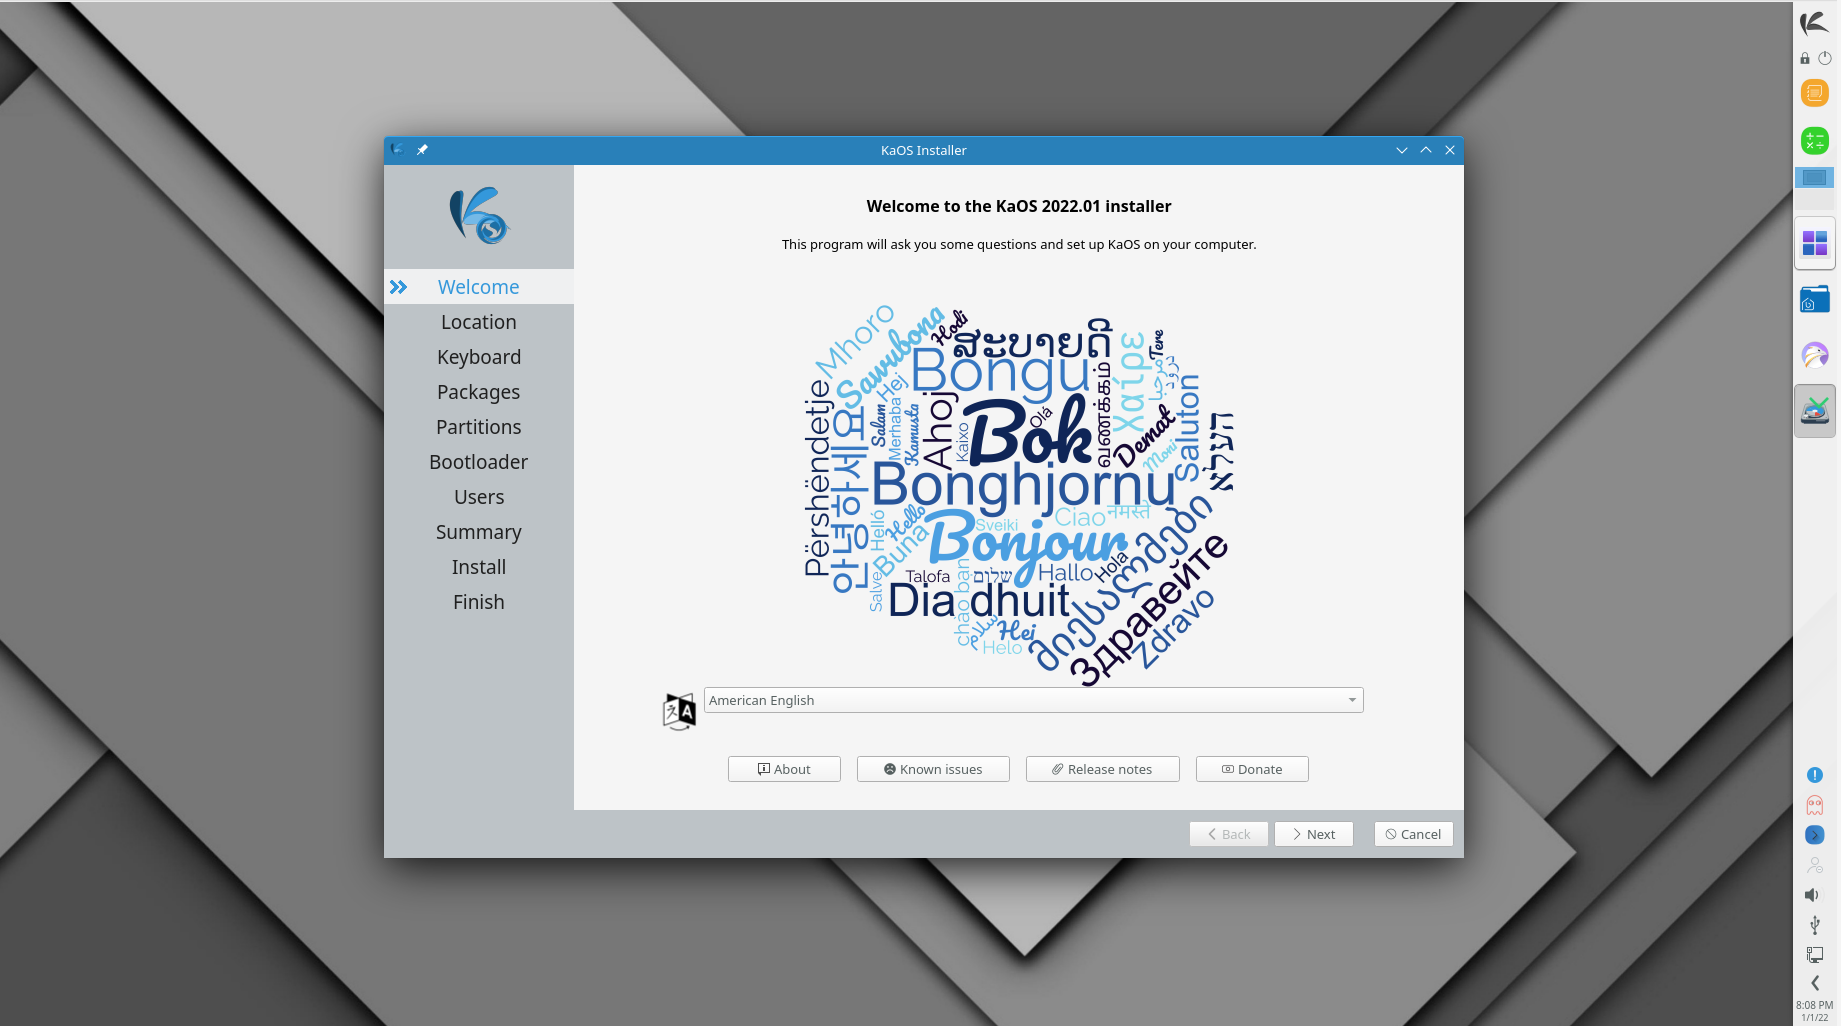
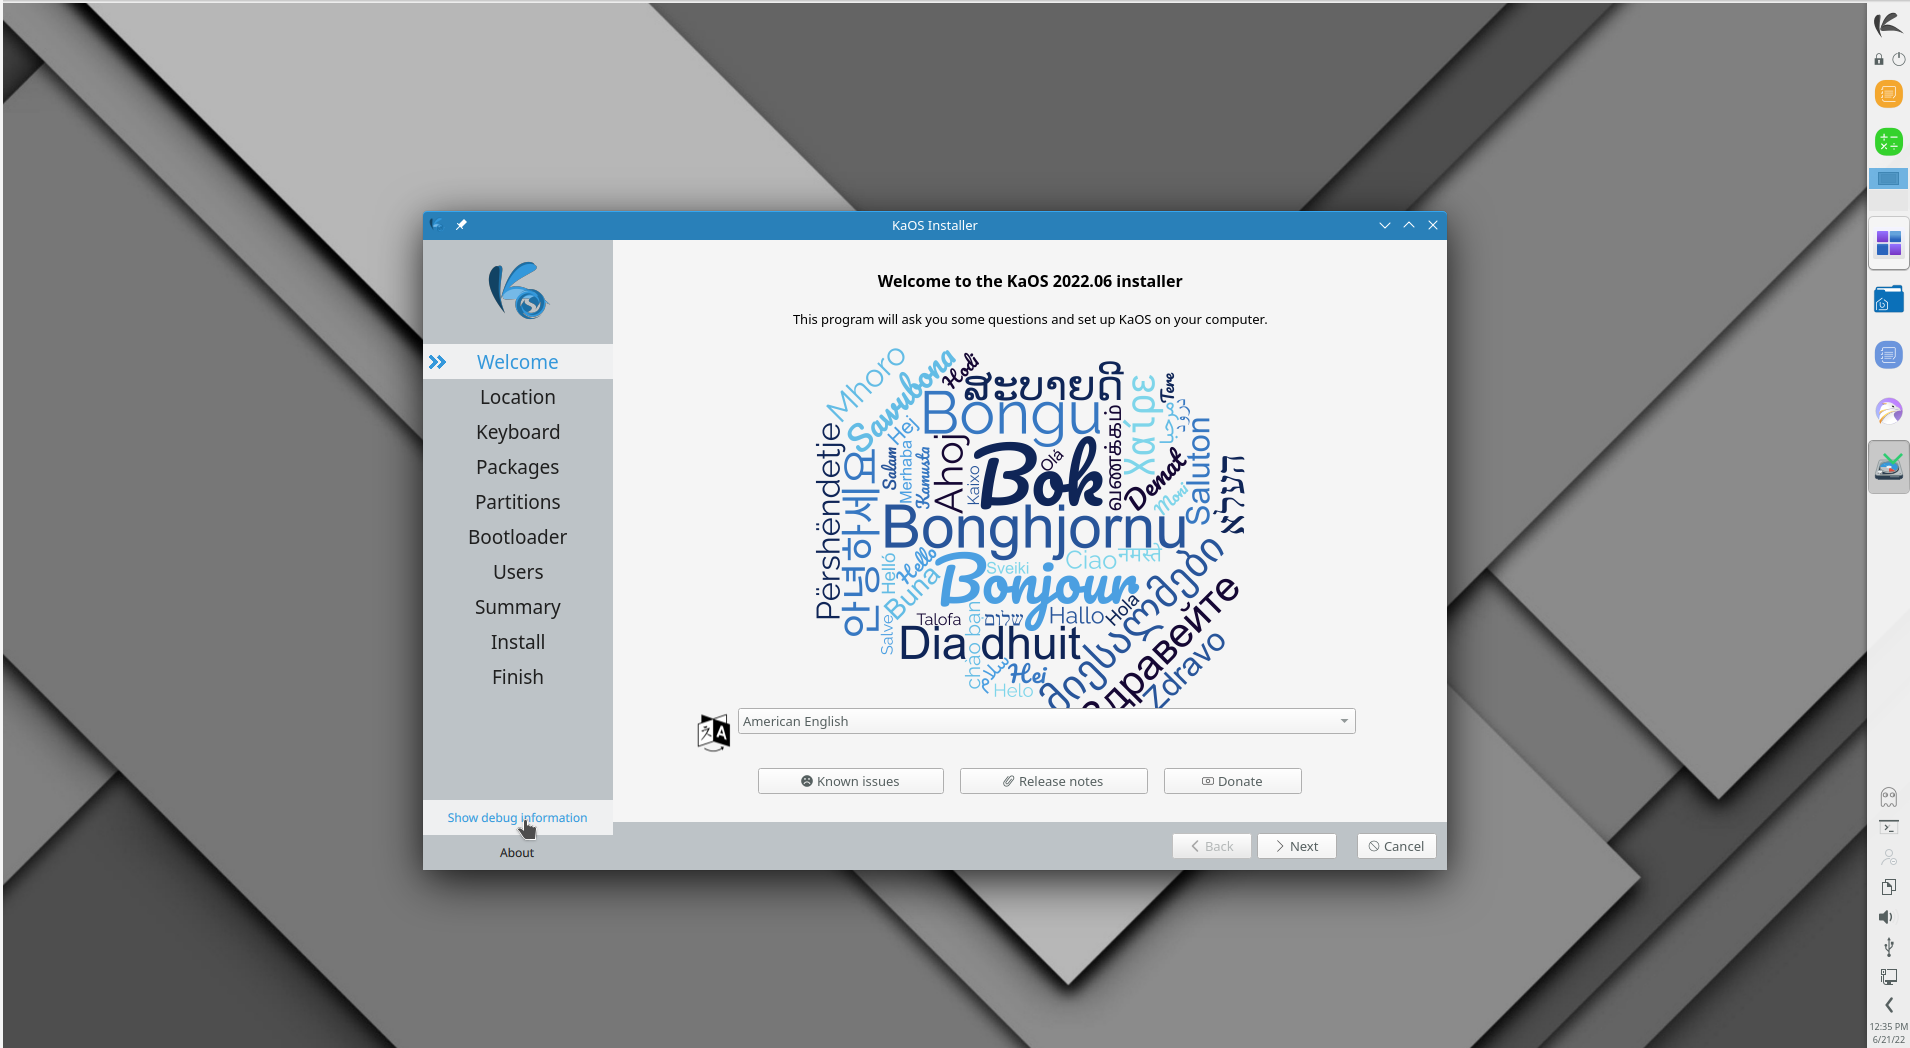
June ISO release

diff --git a/pages/release_notes/index.html b/pages/release_notes/index.html
@@ -19,11 +19,15 @@ categories: []
 tags: []
 comments: []
 ---
-<h3>KaOS - 2022.04</h3>
-     <p>KaOS is pleased to announce the availability of the April release of a new stable ISO.</p>
+<h3>KaOS - 2022.06</h3>
+     <p>It is with great pleasure to present to you the June release of a new stable ISO.</p>
 
-            <p>With the release of KDE Gear 22.04, some nice new features and enhancements are introduced.  Konsole's completely new feature is Quick Commands: open a quick commands pane from Plugins > Show Quick Commands and you will be able to create short scripts you use frequently, Konsole's SSH plugin has been further enhanced and you can assign different visual profiles.  For Kdenlive, two new options stick out: you can create customised profiles so that your rendered movie adapts perfectly to your needs, and you can also render by zones, using the guides you set up on the timeline as references.  Okular now alerts you immediately when you go to sign a document but have no valid digital certificates.  With Skanpage, you can now share scanned documents (including multi-page PDFs) using KDE’s general sharing system, which allows you to push documents to instant messaging apps, online cloud services, social services, and through Bluetooth to other devices.< /br>
-            For the other KDE parts, the latest Frameworks (5.93.0) and Plasma (5.24.4) are included. All built on <strong>Qt 5.15.3+</strong>.</p>
+            <p>Changes were numerous and all over the place, the base of the system for example, was built on a new Glibc 2.35, GCC 11.3.0 and Binutils 2.38 based Toolchain. Further updates in <i>Core</i> included DBus 1.14.0, Systemd 250.7, Nettle 3.8 and the kernel moved to 5.17.15.< /br>
+            Midna, the Plasma theme used in KaOS received some changes (partly to get ready for Plasma 5.25), visual biggest change is the addition of a well-integrated virtual keyboard in the login & lock screen.< /br>
+            The installer <strong> Calamares</strong> now uses the 3.3 branch.  There are no releases with it yet, but it comes with enough improvements that it is a better fit for KaOS. The integration with KPMCore has improved, LUKS support is more robust and there is now an option to not encrypt the boot partition when encryption is chosen for the install. Some GUI improvements have been implemented too.</p>
+
+            <p>But for most, the biggest news for this release will be Plasma 5.25.  KDE Plasma 5.25 redesigns and enhances how you navigate between windows and workspaces. The Overview effect shows all of your open windows and virtual desktops. Gestures on touchpads and touchscreens put Plasma at your fingertips. The dominant color of your background picture can be applied to all components that use the accent color. Titlebars of KDE apps become taller when in Touch Mode, making it easier to press, drag, and close windows with touch. Floating Panels add a margin all around the panel to make it float, while animating it back to look normal when a window is maximized. And Plasma panels can now be navigated with the keyboard, and you can assign custom shortcuts to focus individual panels.< /br>
+            For the other KDE parts, the latest Frameworks (5.95.0), and KDE Gear (22.04.2) are included. All built on <strong>Qt 5.15.5+</strong>.</p>
 
             <p>After almost two years of testing IWD, it is now in such a good state that it has replaced Wpa_Suplicant as the default wireless daemon for KaOS.</p>
 
@@ -31,13 +35,12 @@ comments: []
             
             <p>A shift has started as to how all Python packages are built.  Historically, just about all were built with setuptools through a setup.py script.  PEP17 is the new standard for building python packages, see https://peps.python.org/pep-0517/.  At this stage, KaOS is testing this transition with different new Python build tools, such as Python-flit & Python-build, with Python-wheel currently in use to install the build packages.</p>
 
-            <p>Updates to the base of this distribution included Glib2 2.72.1, kernel moved to Linux 5.17.5, Systemd 250.4, Boost 1.78.0, DBus 1.14.0, Mesa 22.0.2, Vulkan packages 1.3.212, Util-linux 2.38, Coreutils 9.1, and Libusb 1.0.26.</br>
-            Qt 5.15 does not receive updates or maintenance from the Qt company (only closed source, paid support is available). KDE has stepped up though and published a maintained 5.15 fork https://dot.kde.org/2021/04/06/announcing-kdes-qt-5-patch-collection. KaOS now regularly does a patch update from this fork for all of Qt 5.15, so it basically is now at 5.15.4.
+            <p>Qt 5.15 does not receive updates or maintenance from the Qt company (only closed source, paid support is available). KDE has stepped up though and published a maintained 5.15 fork https://dot.kde.org/2021/04/06/announcing-kdes-qt-5-patch-collection. KaOS now regularly does a patch update from this fork for all of Qt 5.15, so it basically is now at 5.15.6.
             </p>
             
             <p>For Nvidia, a new longterm support version is included in this ISO, 470xx. The move by Nvidia to 495 meant the end of support for Kepler based cards, thus the need to add a new legacy version.</p>
             
-            <p>Qt 6.3.0 is included and is now far more complete since many more are ported from Qt5, this includes qt6-location and the big one, qt6-webengine (plus all the Qt6 webengine depends on). A few test applications have been build on qt6-webengine, including some web-browsers. All of the PyQt packages are now available in a Qt6 version too. Plus the Kvantum theming has support for Qt6.</p>
+            <p>Qt 6.3.1 is included and is now far more complete since many more are ported from Qt5, this includes qt6-location and the big one, qt6-webengine (plus all the Qt6 webengine depends on). A few test applications have been build on qt6-webengine, including some web-browsers. All of the PyQt packages are now available in a Qt6 version too. Plus the Kvantum theming has support for Qt6.</p>
 
     <p>Big thanks goes to <strong>Fosshost</strong> for not only providing the default mirror (through the <strong>Fastly CDN</strong> mirror network) but also providing a server for KaOS. This server is replacing an eight year old server (used for package upload, ZNC bouncer, and the old PHP based package viewer).</p>
     
@@ -61,12 +64,12 @@ comments: []
     
     <p>To avoid any misunderstanding and confusion, KaOS is <b>not based upon, derived of, or inspired by</b> any one particular distribution. It is completely independent, build entirely from scratch with its own repositories. To read more about this see <a href="http://kaosx.us/about/based/">FAQ</a>. A <b>rolling release distribution</b> never has a "final" release, every ISO is merely a snapshot of the current status of the repositories. An idea what is currently available:</p>
     
-    <p>The ISO ships with <b>Frameworks 5.93.0, Plasma 5.24.4, KDE Applications 22.04.0</b>, Linux 5.17.5, Systemd 250.4, Kmod 29, NetworkManager 1.36.4, LibreOffice 7.3.2, Elisa, Xorg-Server 1.21.3, Mesa 22.0.2, Glibc 2.33, GCC 11.2.0, non-free Nvidia 510 and Python3 3.9.12 to name a few.</p>
+    <p>The ISO ships with <b>Frameworks 5.95.0, Plasma 5.25.1, KDE Applications 22.04.2</b>, Linux 5.17.15, Systemd 250.7, Kmod 29, NetworkManager 1.38.2, LibreOffice 7.3.4, Elisa, Xorg-Server 1.21.3, Mesa 22.1.2, Glibc 2.35, GCC 11.3.0, non-free Nvidia 515 and Python3 3.9.13 to name a few.</p>
     
     <p>The package manager is <strong>Pacman 6.0.1</strong>, with the simple but powerful Octopi 0.13 as GUI frontend. Default web browser is Qt based Falkon. <b>GFXboot</b> is included with KaOS artwork, Grub theme is Midna, Look &amp; Feel is a KaOS exclusive version "Midna".</p>
     
-    <p><b>Repositories</b> of KaOS will stay limited in size and expect it to stay at the current maximum of about 2100-2200. A gist of what is available, besides the stable kernel there is Linux-next 5.17, Calligra 3.2.1, VLC, Vokoscreen, Blender, Kodi, Calibre, Sigil, Vulkan packages, a few games like 0ad and Knights.<br />
-    A limited number of the most well-known GTK applications are available, examples Firefox 99.0.1, Chrome 102, Ardour 6.9.0, Inkscape 1.1.2, GIMP 2.10.30 and Thunderbird 91.8.1.<br />
+    <p><b>Repositories</b> of KaOS will stay limited in size and expect it to stay at the current maximum of about 2100-2200. A gist of what is available, besides the stable kernel there is Linux-next 5.18, Calligra 3.2.1, VLC, Vokoscreen, Blender, Kodi, Calibre, Sigil, Vulkan packages, a few games like 0ad and Knights.<br />
+    A limited number of the most well-known GTK applications are available, examples Firefox 101.0.1, Chrome 104, Ardour 6.9.0, Inkscape 1.2, GIMP 2.10.32 and Thunderbird 91.10.0.<br />
     Complete language packs are available for KDE, Calligra, Firefox, LibreOffice and Thunderbird. For IM, Fcitx 4.2.9.6 is available as a rather complete group.</p>
     
     <p><b>Known issues:</b></p>

diff --git a/_includes/sidebar.html b/_includes/sidebar.html
@@ -3,13 +3,13 @@
   <img alt="Downloads of KaOS at SourceForge" title="Total downloads from SourceForge" src="https://img.shields.io/sourceforge/dt/kaosx?color=blue&style=flat-square" >
 
   <ul style="none">
-    <li><a href="https://sourceforge.net/projects/kaosx/files/ISO/KaOS-2022.04-x86_64.iso" onClick="ga('send', 'event', { eventCategory: 'downloads', eventAction: 'click', eventLabel: 'sf', eventValue: 1});">KaOS ISO</a></li>
-    <li><a href="https://mirrors.fossho.st/kaos/KaOS-2022.04-x86_64.iso" onClick="ga('send', 'event', { eventCategory: 'downloads', eventAction: 'click', eventLabel: 'fh', eventValue: 1});">Fosshost Mirror</a></li>
-    <li><a href="http://mirror6.layerjet.com/kaos/KaOS-2022.04-x86_64.iso" onClick="ga('send', 'event', { eventCategory: 'downloads', eventAction: 'click', eventLabel: 'de', eventValue: 1});">German Mirror</a></li>
-    <li><a href="http://kaos.youm.org/KaOS-2022.04-x86_64.iso" onClick="ga('send', 'event', { eventCategory: 'downloads', eventAction: 'click', eventLabel: 'fr', eventValue: 1});">French Mirror</a></li>
-    <li><a href="https://mirrors.shu.edu.cn/kaoslinux/KaOS-2022.04-x86_64.iso" onClick="ga('send', 'event', { eventCategory: 'downloads', eventAction: 'click', eventLabel: 'ch', eventValue: 1});">Chinese Mirror</a></li>
-    <li><a href="http://mirror.234.cz/kaos/KaOS-2022.04-x86_64.iso" onClick="ga('send', 'event', { eventCategory: 'downloads', eventAction: 'click', eventLabel: 'cz', eventValue: 1});">Czech Mirror</a></li>
-    <a href="https://mirror.math.princeton.edu/pub/kaoslinux/KaOS-2022.04-x86_64.iso" onClick="ga('send', 'event', { eventCategory: 'downloads', eventAction: 'click', eventLabel: 'usa', eventValue: 1});">USA Mirror</a>
+    <li><a href="https://sourceforge.net/projects/kaosx/files/ISO/KaOS-2022.06-x86_64.iso" onClick="ga('send', 'event', { eventCategory: 'downloads', eventAction: 'click', eventLabel: 'sf', eventValue: 1});">KaOS ISO</a></li>
+    <li><a href="https://mirrors.fossho.st/kaos/KaOS-2022.06-x86_64.iso" onClick="ga('send', 'event', { eventCategory: 'downloads', eventAction: 'click', eventLabel: 'fh', eventValue: 1});">Fosshost Mirror</a></li>
+    <li><a href="http://mirror6.layerjet.com/kaos/KaOS-2022.06-x86_64.iso" onClick="ga('send', 'event', { eventCategory: 'downloads', eventAction: 'click', eventLabel: 'de', eventValue: 1});">German Mirror</a></li>
+    <li><a href="http://kaos.youm.org/KaOS-2022.06-x86_64.iso" onClick="ga('send', 'event', { eventCategory: 'downloads', eventAction: 'click', eventLabel: 'fr', eventValue: 1});">French Mirror</a></li>
+    <li><a href="https://mirrors.shu.edu.cn/kaoslinux/KaOS-2022.06-x86_64.iso" onClick="ga('send', 'event', { eventCategory: 'downloads', eventAction: 'click', eventLabel: 'ch', eventValue: 1});">Chinese Mirror</a></li>
+    <li><a href="http://mirror.234.cz/kaos/KaOS-2022.06-x86_64.iso" onClick="ga('send', 'event', { eventCategory: 'downloads', eventAction: 'click', eventLabel: 'cz', eventValue: 1});">Czech Mirror</a></li>
+    <a href="https://mirror.math.princeton.edu/pub/kaoslinux/KaOS-2022.06-x86_64.iso" onClick="ga('send', 'event', { eventCategory: 'downloads', eventAction: 'click', eventLabel: 'usa', eventValue: 1});">USA Mirror</a>
     <!--<li><a href="https://iso.k0nsl.org/KaOS/KaOS-2017.04-x86_64.iso"  onClick="ga('send', 'event', { eventCategory: 'downloads', eventAction: 'click', eventLabel: 'usa2', eventValue: 1});">Second USA Mirror</a></li> -->
     <!--<li><a href="https://torrent.resonatingmedia.com/torrents/KaOS-2020.09-x86_64.iso.torrent" onClick="ga('send', 'event', { eventCategory: 'downloads', eventAction: 'click', eventLabel: 'torrent', eventValue: 1});">KaOS Torrent</a></li>-->
     <!--<li><a href="{{ site.baseurl }}/media/KaOS-2018.04-x86_64.iso.torrent" onClick="ga('send', 'event', { eventCategory: 'downloads', eventAction: 'click', eventLabel: 'torrent2', eventValue: 1});">Second KaOS Torrent</a></li> -->
@@ -27,7 +27,7 @@
   
   <ul style="none">
     <li><a href="{{ site.baseurl }}/media/KaOS.asc">KaOS Signing Key</a></li>
-    <li><a href="{{ site.baseurl }}/media/KaOS-2022.04-x86_64.iso.sig">ISO GPG signature</a></li>
+    <li><a href="{{ site.baseurl }}/media/KaOS-2022.06-x86_64.iso.sig">ISO GPG signature</a></li>
   </ul>
   
   <h4>Mirrors</h4>

diff --git a/pages/download/index.md b/pages/download/index.md
@@ -24,17 +24,17 @@ comments: []
 
 KaOS makes regular ISO releases available, so any (new) user is not confronted with a large or complicated first update. Those who already have KaOS installed do not need to reinstall, a regular `sudo pacman -Syu` will always give you the latest.
 
-[Release Notes]({{ site.baseurl }}/pages/release_notes) for KaOS 2022.04 ISO
+[Release Notes]({{ site.baseurl }}/pages/release_notes) for KaOS 2022.06 ISO
 
 <div id="wrapper4">
-<p><b>SHA256SUM KaOS 2022.04:</b> <code>3babaeeb87cf0cacdbb61b7e700922e2b490a15d2021f5f6ca5650c7b4c72d84</code></p>
-<p><b>SIZE: 2.8GiB</b></p>
+<p><b>SHA256SUM KaOS 2022.06:</b> <code>d8960101c20509bd1f37073302a27781e1dc4aeef2f43d86ce0de48f084d9d3f</code></p>
+<p><b>SIZE: 2.9GiB</b></p>
 </div>
 
 ### Current Version
 {: .offset}
-The April version ships with Plasma 5 as the default desktop, it includes non-free Nvidia drivers, KDE Applications 22.04.0, Linux kernel 5.17.5 (Linux-next is in the repo's, following the 5.17 series), GCC 11.2.0, Glibc 2.33, Systemd 250.4, Kmod 29, Xorg-server 21.1.3, Qt 5.15.3+, Mesa 22.0.2, LibreOffice 7.3.2, Elisa and the latest versions of Falkon, Octopi, Kde-Telepathy.
-For those wondering about gtk apps, Firefox 99.0.1, Chrome 103, Thunderbird 91.8, GIMP 2.10.30, Ardour 6.9.0 are among the available in their latest version.
+The June version ships with Plasma 5 as the default desktop, it includes non-free Nvidia drivers, KDE Applications 22.04.2, Linux kernel 5.17.15 (Linux-next is in the repo's, following the 5.18 series), GCC 11.3.0, Glibc 2.35, Systemd 250.7, Kmod 29, Xorg-server 21.1.3, Qt 5.15.5+, Mesa 22.1.2, LibreOffice 7.3.4, Elisa and the latest versions of Falkon, Octopi, Kde-Telepathy.
+For those wondering about gtk apps, Firefox 101.0.1, Chrome 104, Thunderbird 91.10, GIMP 2.10.32, Ardour 6.9.0 are among the available in their latest version.
 
 ### Known Issues
 {: .offset}
@@ -53,5 +53,5 @@ gpg --import KaOS.asc
 ```
 Next download the ISO GPG Signature to the same directory as where you downloaded the ISO and verify with (adjust for correct year and date):
 ```
-gpg --verify KaOS-2022.04-x86_64.iso.sig
+gpg --verify KaOS-2022.06-x86_64.iso.sig
 ```
